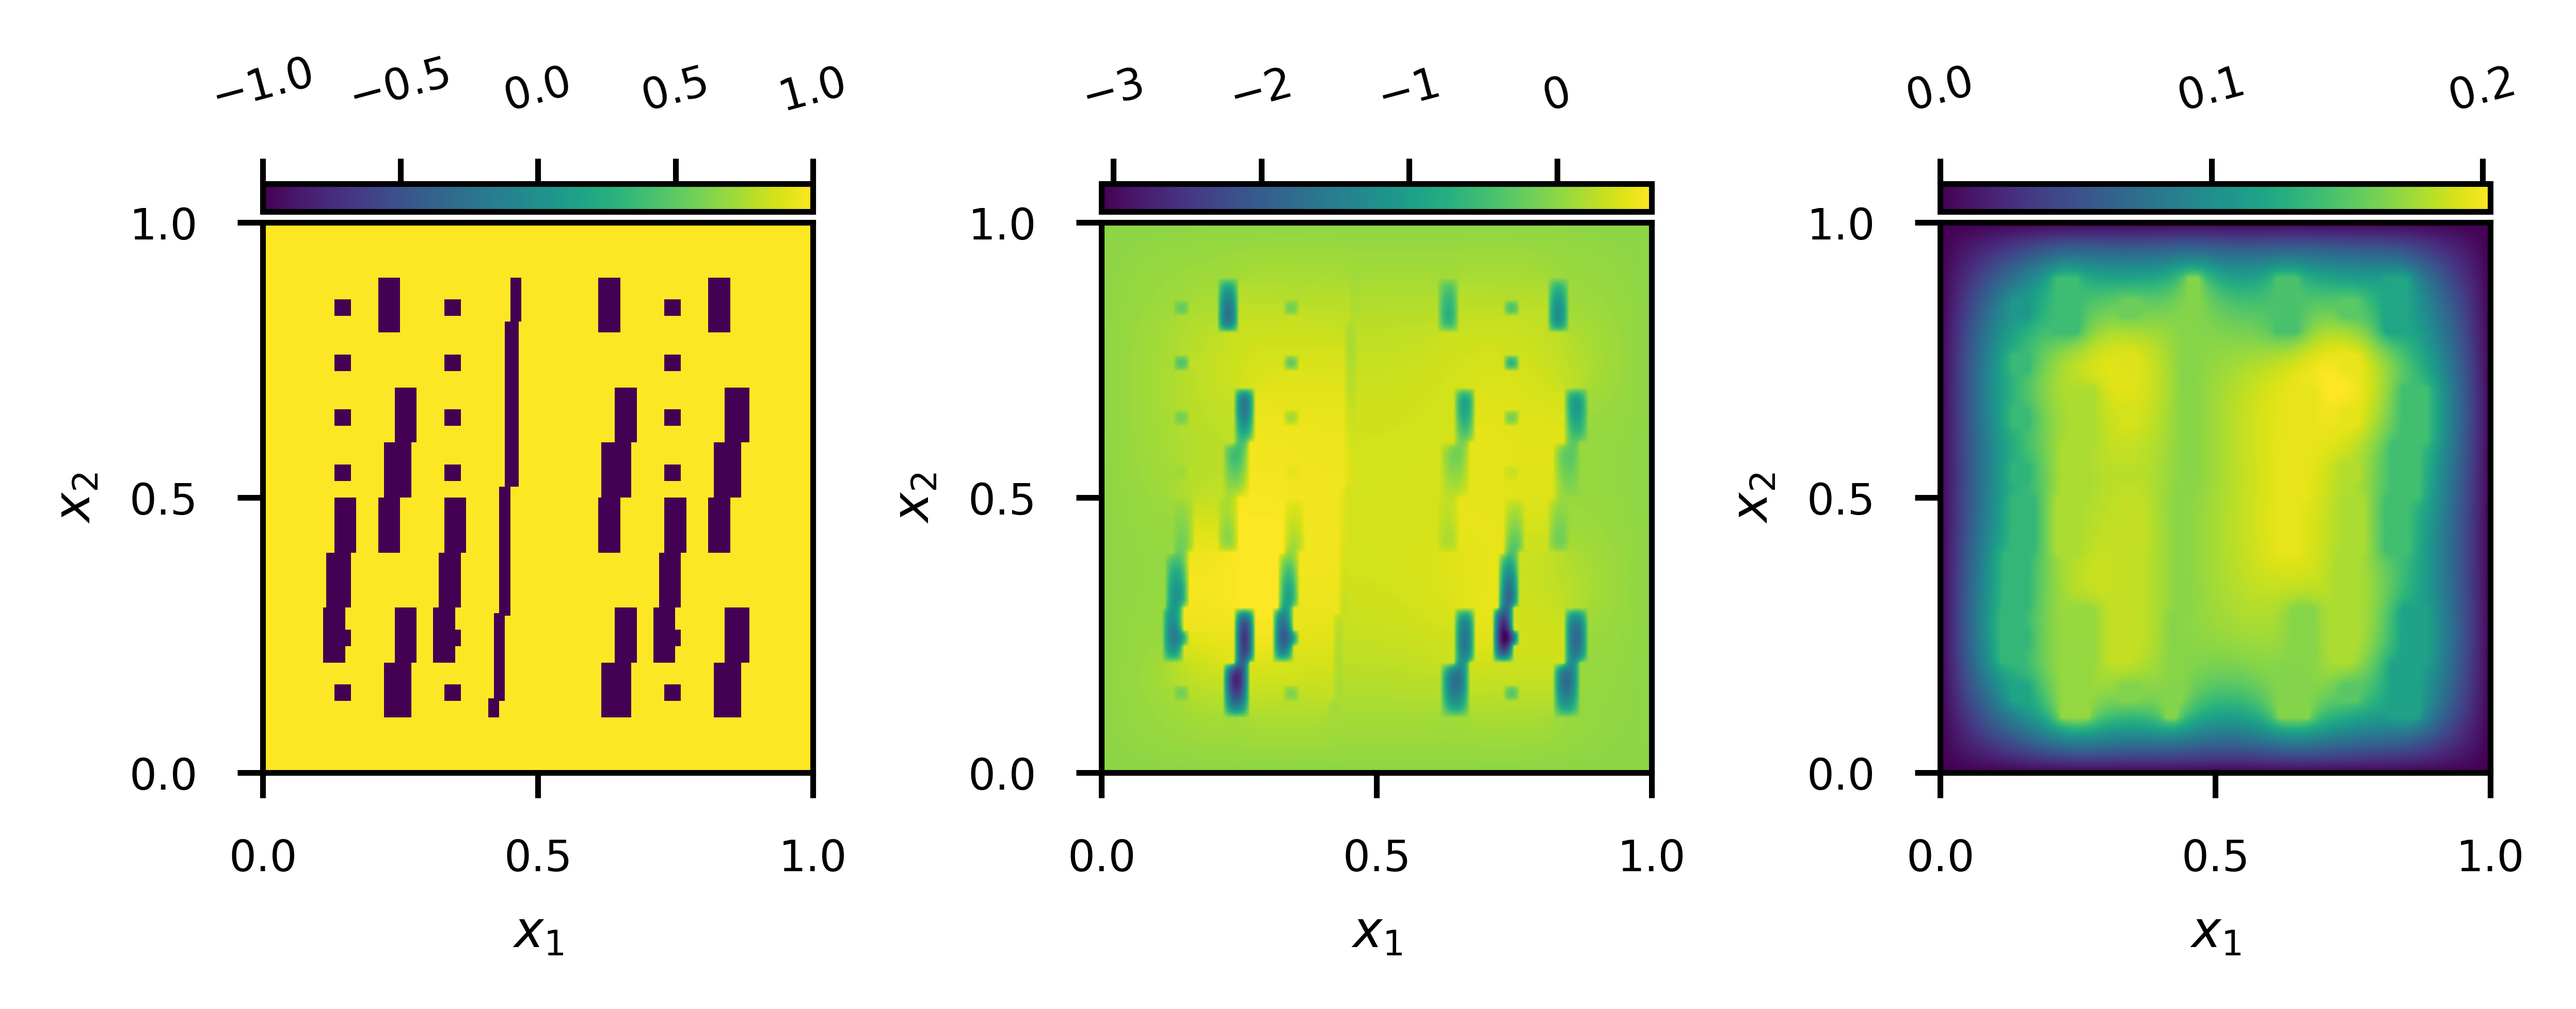
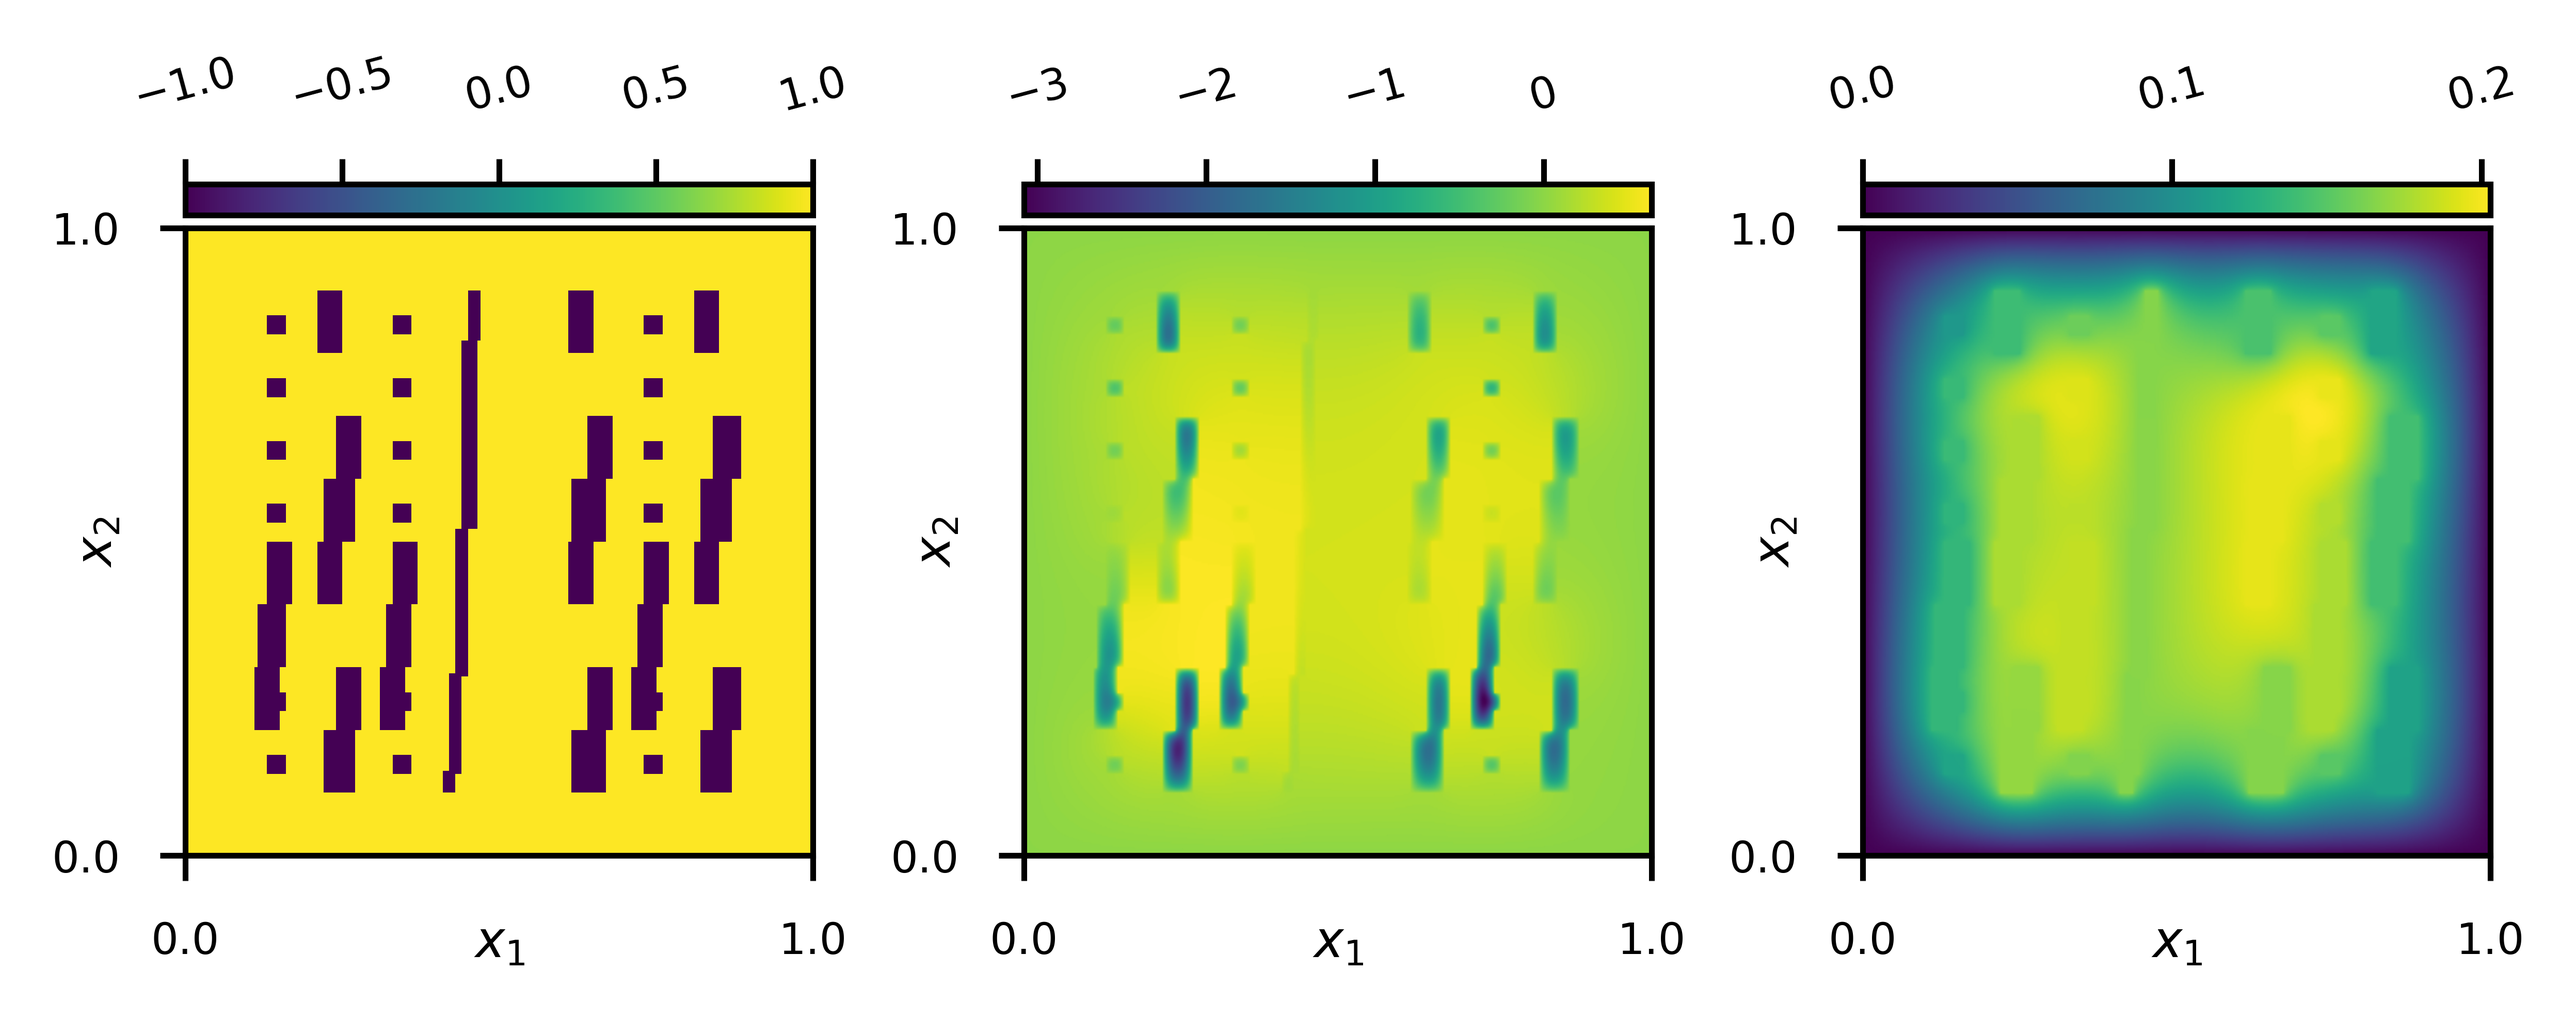
almost done!

diff --git a/random_inclusion_settings.py b/random_inclusion_settings.py
@@ -244,8 +244,10 @@ if __name__ == "__main__":
         plot_settings.append_colorbar(fig1, ax, posi)
         ax.set_xlabel("$x_1$")
         ax.set_ylabel("$x_2$")
-        ax.set_xticks([0.0, 0.5, 1.0], ["0.0", "0.5", "1.0"])
-        ax.set_yticks([0.0, 0.5, 1.0], ["0.0", "0.5", "1.0"])
+        ax.set_xticks([0.0, 1.0], ["0.0", "1.0"])
+        ax.xaxis.set_label_coords(0.5, -0.1)
+        ax.set_yticks([0.0, 1.0], ["0.0", "1.0"])
+        ax.yaxis.set_label_coords(-0.1, 0.5)
         # ax.set_title("Medium configuration")
 
         ax = axs1[1]
@@ -253,8 +255,10 @@ if __name__ == "__main__":
         plot_settings.append_colorbar(fig1, ax, posi)
         ax.set_xlabel("$x_1$")
         ax.set_ylabel("$x_2$")
-        ax.set_xticks([0.0, 0.5, 1.0], ["0.0", "0.5", "1.0"])
-        ax.set_yticks([0.0, 0.5, 1.0], ["0.0", "0.5", "1.0"])
+        ax.set_xticks([0.0, 1.0], ["0.0", "1.0"])
+        ax.xaxis.set_label_coords(0.5, -0.1)
+        ax.set_yticks([0.0, 1.0], ["0.0", "1.0"])
+        ax.yaxis.set_label_coords(-0.1, 0.5)
         # ax.set_title("($\sigma_*^+$, $\sigma_*^-$)=(1.0, 1.0e-3)")
 
         ax = axs1[2]
@@ -262,8 +266,10 @@ if __name__ == "__main__":
         plot_settings.append_colorbar(fig1, ax, posi)
         ax.set_xlabel("$x_1$")
         ax.set_ylabel("$x_2$")
-        ax.set_xticks([0.0, 0.5, 1.0], ["0.0", "0.5", "1.0"])
-        ax.set_yticks([0.0, 0.5, 1.0], ["0.0", "0.5", "1.0"])
+        ax.set_xticks([0.0, 1.0], ["0.0", "1.0"])
+        ax.xaxis.set_label_coords(0.5, -0.1)
+        ax.set_yticks([0.0, 1.0], ["0.0", "1.0"])
+        ax.yaxis.set_label_coords(-0.1, 0.5)
         # ax.set_title("($\sigma_*^+$, $\sigma_*^-$)=(1.0, 1.0e+3)")
 
         xaxis_ticks = [1, 2, 3, 4]
